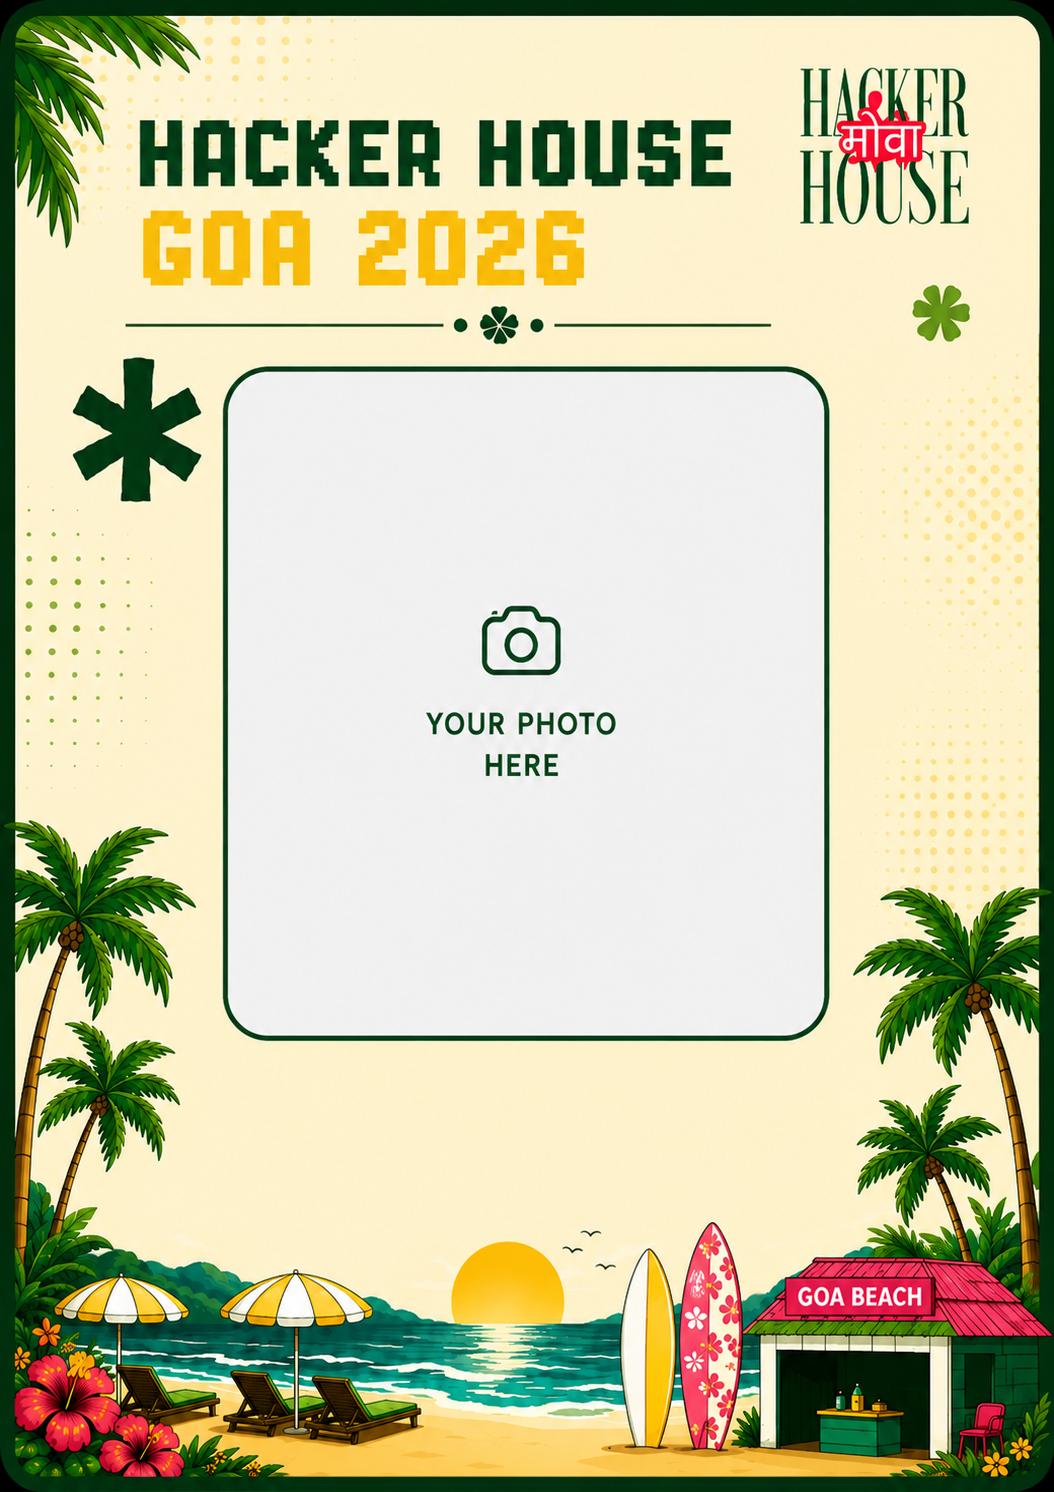
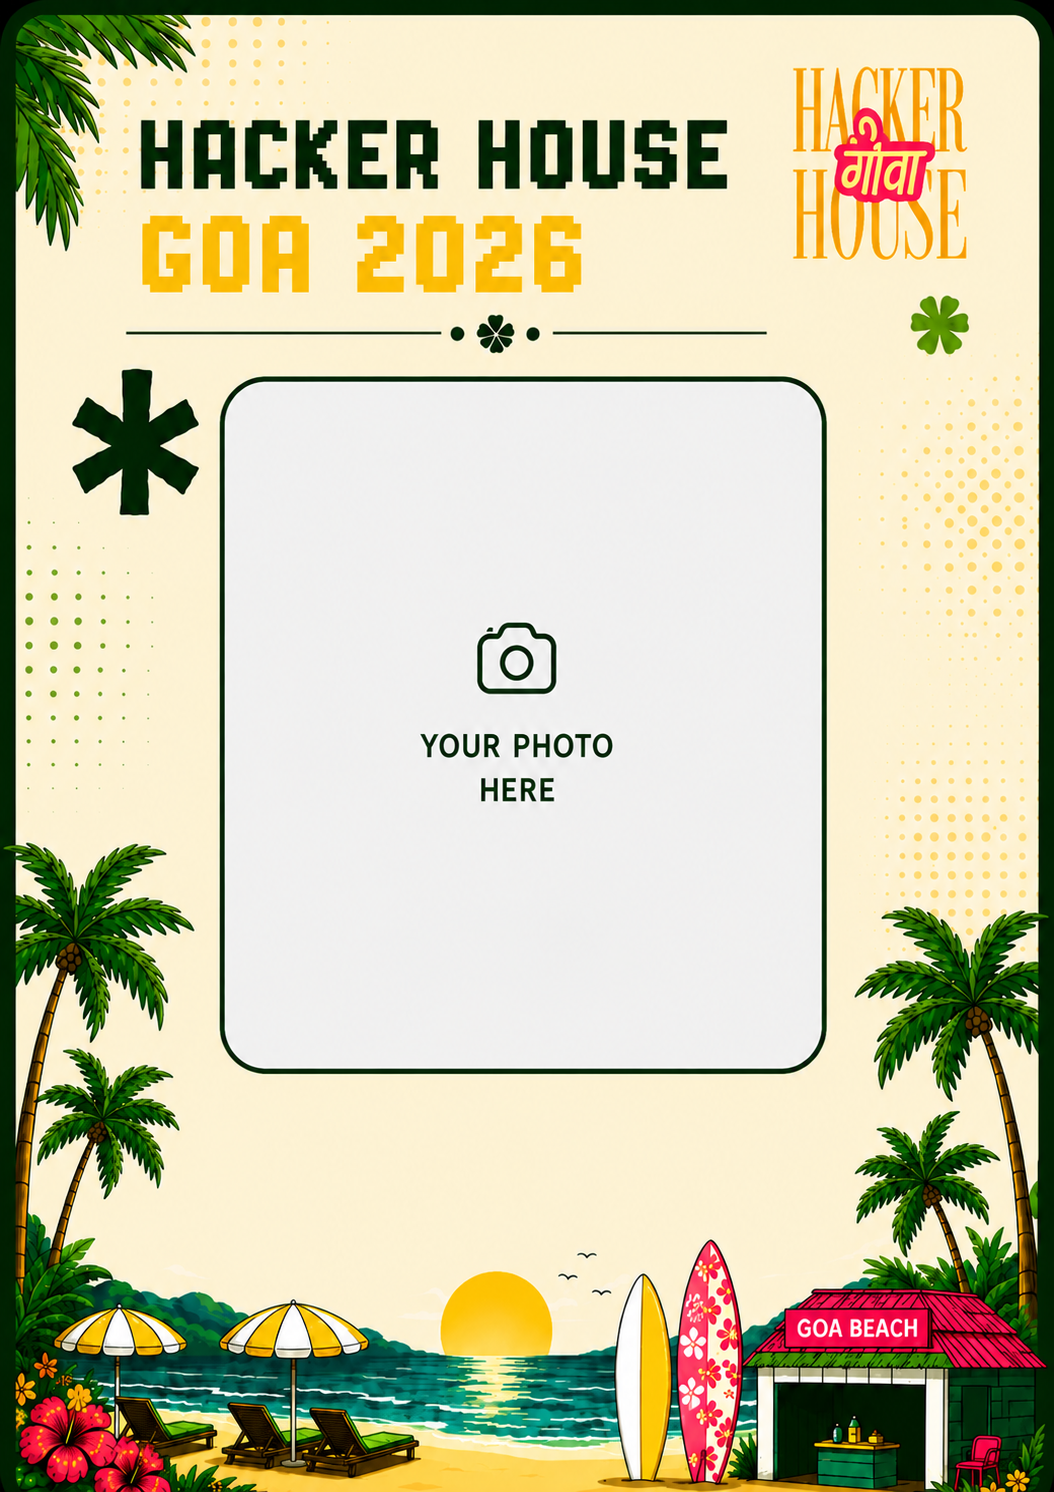
Initial project commit

diff --git a/src/styles/result0.css b/src/styles/result0.css
@@ -210,9 +210,9 @@
 .idcard0__photo {
     position: absolute;
     left: 21%;
-    top: 24%;
+    top: 25%;
     width: 58%;
-    height: 46%;
+    height: 47%;
     border-radius: 8%;
     overflow: hidden;
     background: #eef1ef;
@@ -276,19 +276,19 @@
 
 
 .idcard0__field--1 {
-    top: 71%;
+    top: 73%;
     height: 7.4%;
 }
 
 
 .idcard0__field--2 {
-    top: 79%;
+    top: 81%;
     height: 7.4%;
 }
 
 
 .idcard0__field--3 {
-    top: 87%;
+    top: 89%;
     height: 7.4%;
 }
 

diff --git a/src/components/Logo.jsx b/src/components/Logo.jsx
@@ -14,3 +14,4 @@ export default function Logo() {
     />
   )
 }
+
